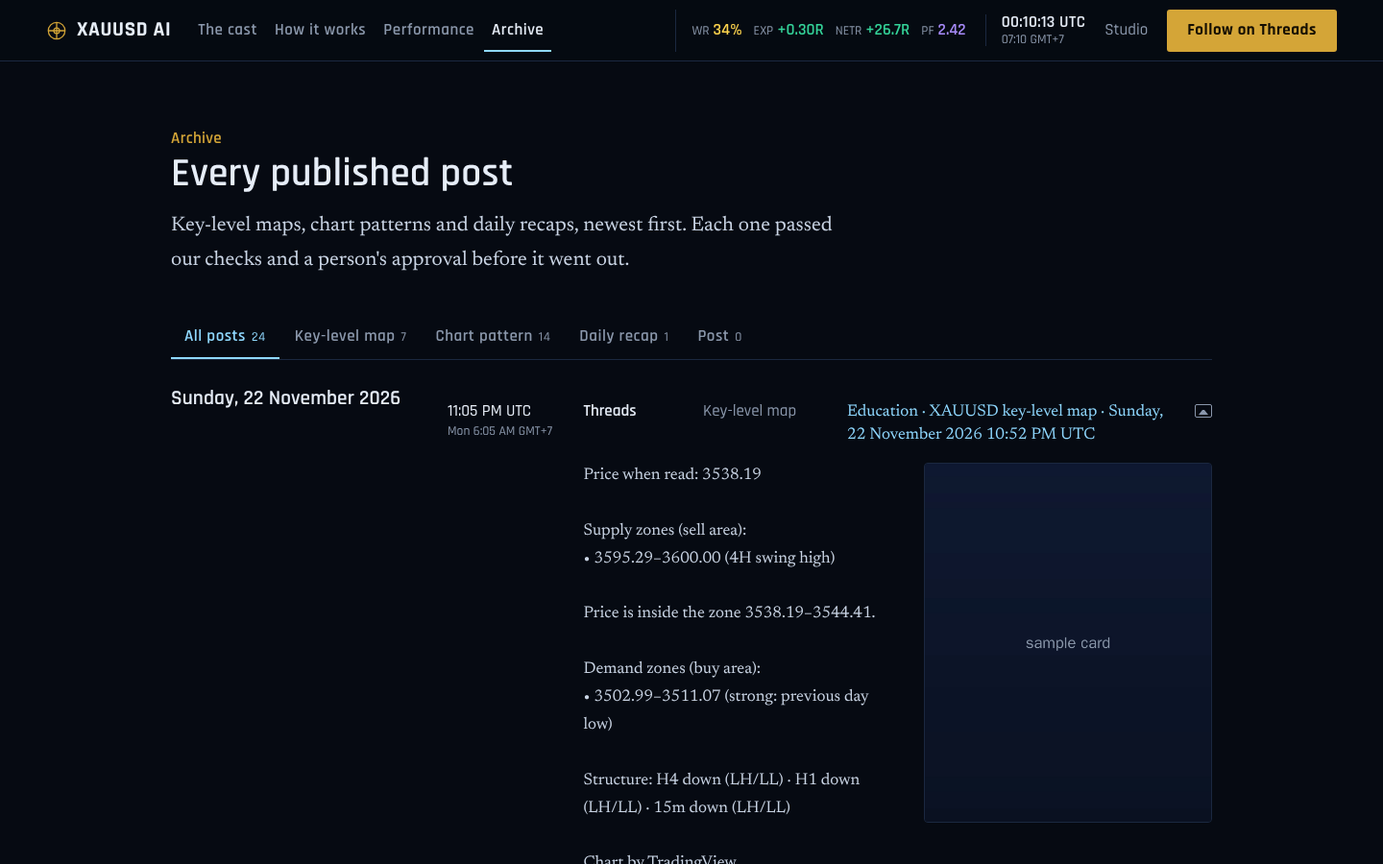
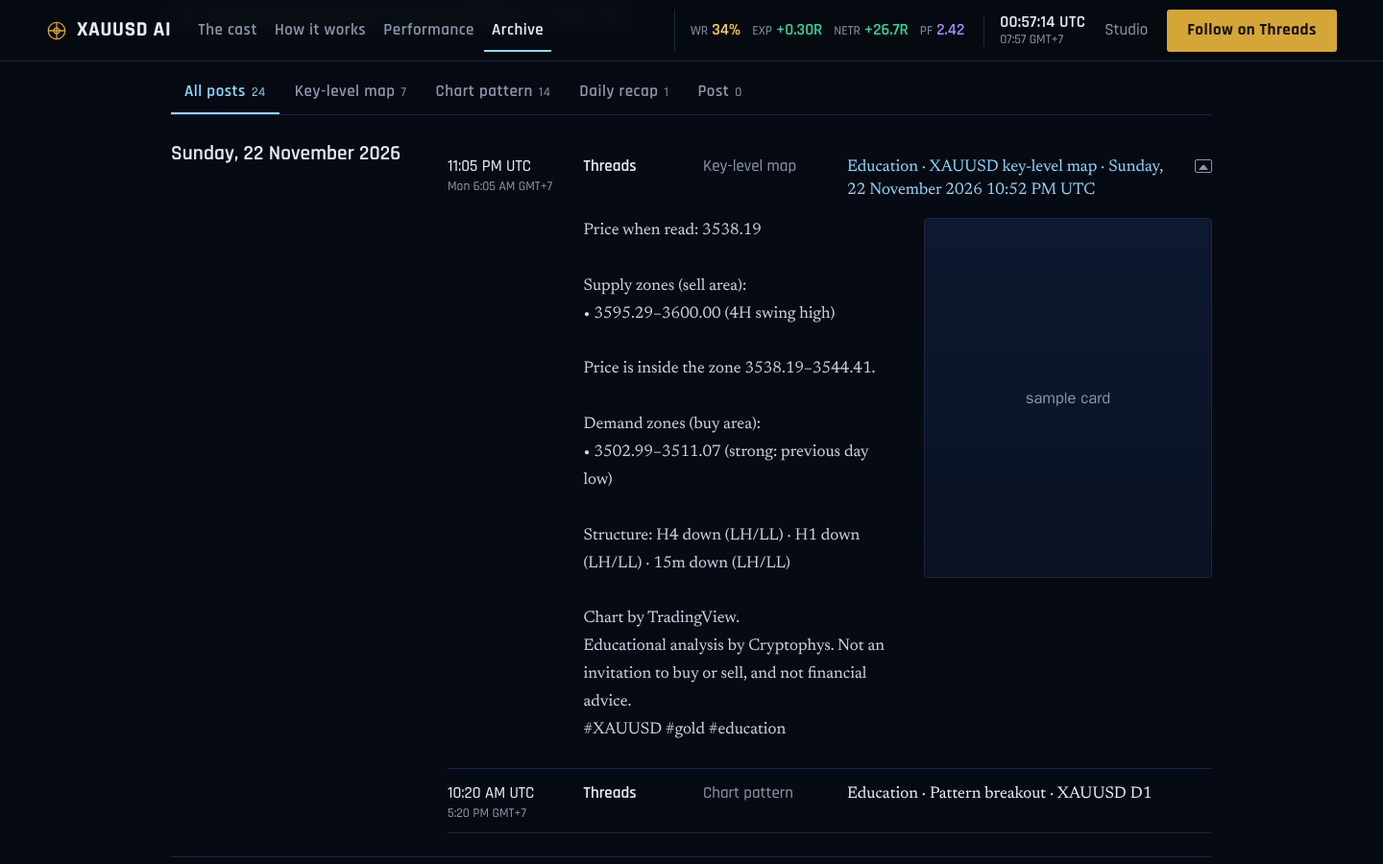
fix(archive): the digest on tablets, the phone as the mockup, a test for the card path
Orchestrator review of #73 at 5c7c7a2.
- MUST_FIX, tablets: from 761 to about 1000 px the day's 240 px column
  left the first line and the opened text 0 to 20 px. Now, as the
  mockup's 1100 px rule, the date stands over its posts at 1100 px and
  narrower; at 860 px and narrower the card goes under the text, at
  most 300 px wide. A headless sweep from 320 to 1600 px, with each
  line closed and opened, finds no horizontal scroll; the first line
  is at least 178 px wide (248 px at 768, 315 px at 834, 490 px at 1024).
- SHOULD_FIX: the card test now publishes a draft with its JPEG card
  and reads the Archive. posts[0].image is /media/<id>.jpg and is
  served, and image_url is absent. Sending image:null fails it.
- Phone: as the mockup, the time has its own column over two rows
  (min-content, the local time wrapping), with the channel and kind
  beside it and the first line under them.
- Forced colours: the picture mark keeps its triangle
  (forced-color-adjust:none, CanvasText).
- SSOT and CHANGELOG say what is built, including the two assistive
  strings and the shorter time line. Screenshots at 1440, 768 and
  iPhone 13.

Claude-Session: https://claude.ai/code/session_01KGEN4kuWc85UwVcwwV2Z6T

diff --git a/public/home.css b/public/home.css
@@ -489,17 +489,28 @@ ul{margin:0;padding:0;list-style:none}
 .a-note b{display:block;font:600 var(--s0)/1.3 var(--display)}
 .a-note p{margin-top:6px;font-style:italic;color:var(--slate)}
 .a-note a{font-style:normal;font-family:var(--display);font-weight:600;color:var(--holo)}
-/* a phone (the mockup at 390): the date over its posts; per line the time beside who and what, the first line under them; tabs wrap */
+/* a tablet and a narrow window (the mockup's 1100 px rule; orchestrator review of #73: from 761 px the day's 240 px
+   column left the line and the opened text 0 to 20 px): the date over its posts, so a line and its card take the width */
+@media (max-width:1100px){
+  .a-day{grid-template-columns:1fr;gap:6px}
+}
+/* the opened post: its card beside the text while both fit (the text at least 20 em), else under it */
+@media (max-width:860px){
+  .a-open{grid-template-columns:1fr;gap:16px}
+  .a-card{max-width:300px}
+}
+/* a phone (the mockup at 390): per line the time in its own column over two rows, the channel and kind beside it with
+   the first line under them, whole; the opened text and card under the line, full width; tabs wrap */
 @media (max-width:760px){
   .kinds{margin-top:28px}
   .kinds button{align-items:center;padding:0 10px}
-  .a-day{grid-template-columns:1fr;gap:0;padding-top:28px}
-  .a-post summary{grid-template-columns:auto minmax(0,1fr) 20px;grid-template-areas:"c k p" "t t t" "h h h";row-gap:2px;column-gap:10px}
-  .a-time{grid-area:t;display:flex;flex-wrap:wrap;align-items:baseline;gap:0 10px}
-  .a-time span{display:inline}.a-time .a-local{margin-top:0}
+  .a-day{padding-top:28px}
+  .a-post summary{grid-template-columns:min-content auto minmax(0,1fr) 20px;grid-template-areas:"t c k p" "t h h h";row-gap:2px;column-gap:10px}
+  .a-time{grid-area:t}
+  .a-time .a-local{white-space:normal}
   .a-ch{grid-area:c}.a-kind{grid-area:k}.a-pic{grid-area:p;grid-column:auto}
-  .a-head{grid-area:h;white-space:normal;margin-top:4px}
-  .a-open{grid-template-columns:1fr;padding-left:0;gap:16px}
+  .a-head{grid-area:h;white-space:normal}
+  .a-open{padding-left:0}
 }
 
 /* ---------- one look for every public page (the one-theme backlog, PR 1): Disclaimer, Privacy and Terms on the
@@ -538,6 +549,7 @@ ul{margin:0;padding:0;list-style:none}
   .chip[aria-pressed="true"]{forced-color-adjust:none;background:Highlight;color:HighlightText;border-color:Highlight}
   .status-reading .tick,.status-reading .tick.bear,.status-reading .tick.bull,.tally b,.tally .bear,.tally .bull,.tally .flat{forced-color-adjust:none;background:CanvasText}
   .status-reading .tick{outline:2px solid Canvas}
+  .a-pic,.a-pic::after{forced-color-adjust:none}.a-pic{border-color:CanvasText}.a-pic::after{border-bottom-color:CanvasText}
 }
 
 /* ---------- Sign in (the one-theme backlog, PR 4; owner decision 4: the dark look), which is also the studio's 403

diff --git a/public/index.html b/public/index.html
@@ -18,7 +18,7 @@
 <meta name="theme-color" content="#060A12">
 <link rel="preload" href="/fonts/rajdhani-latin-700-normal.woff2" as="font" type="font/woff2" crossorigin>
 <link rel="preload" href="/fonts/newsreader-latin-400-normal.woff2" as="font" type="font/woff2" crossorigin>
-<link rel="stylesheet" href="/home.css?v=4ef91704001a">
+<link rel="stylesheet" href="/home.css?v=8cfe24a48087">
 </head>
 <body itemscope itemtype="https://schema.org/WebSite">
 <link itemprop="url" href="https://cta.cryptophys.work/"><meta itemprop="name" content="XAUUSD AI by Cryptophys">

diff --git a/public/archive.html b/public/archive.html
@@ -19,7 +19,7 @@
 <link rel="preload" href="/api/public/archive?limit=100" as="fetch" crossorigin>
 <link rel="preload" href="/fonts/rajdhani-latin-600-normal.woff2" as="font" type="font/woff2" crossorigin>
 <link rel="preload" href="/fonts/newsreader-latin-400-normal.woff2" as="font" type="font/woff2" crossorigin>
-<link rel="stylesheet" href="/home.css?v=4ef91704001a">
+<link rel="stylesheet" href="/home.css?v=8cfe24a48087">
 </head>
 <body>
 <a class="skip" href="#posts">Skip to the posts</a>

diff --git a/public/performance.html b/public/performance.html
@@ -19,7 +19,7 @@
 <link rel="preload" href="/api/public/track-record" as="fetch" crossorigin>
 <link rel="preload" href="/fonts/rajdhani-latin-600-normal.woff2" as="font" type="font/woff2" crossorigin>
 <link rel="preload" href="/fonts/newsreader-latin-400-normal.woff2" as="font" type="font/woff2" crossorigin>
-<link rel="stylesheet" href="/home.css?v=4ef91704001a">
+<link rel="stylesheet" href="/home.css?v=8cfe24a48087">
 </head>
 <body>
 <a class="skip" href="#record">Skip to the record</a>

diff --git a/public/signin.html b/public/signin.html
@@ -12,7 +12,7 @@
 <meta name="theme-color" content="#060A12">
 <link rel="preload" href="/fonts/rajdhani-latin-500-normal.woff2" as="font" type="font/woff2" crossorigin>
 <link rel="preload" href="/fonts/newsreader-latin-400-normal.woff2" as="font" type="font/woff2" crossorigin>
-<link rel="stylesheet" href="/home.css?v=4ef91704001a">
+<link rel="stylesheet" href="/home.css?v=8cfe24a48087">
 </head>
 <body class="gated">
 <a class="skip" href="#text">Skip to the text</a>

diff --git a/public/about.html b/public/about.html
@@ -18,7 +18,7 @@
 <meta name="theme-color" content="#060A12">
 <link rel="preload" href="/fonts/rajdhani-latin-600-normal.woff2" as="font" type="font/woff2" crossorigin>
 <link rel="preload" href="/fonts/newsreader-latin-400-normal.woff2" as="font" type="font/woff2" crossorigin>
-<link rel="stylesheet" href="/home.css?v=4ef91704001a">
+<link rel="stylesheet" href="/home.css?v=8cfe24a48087">
 </head>
 <body>
 <a class="skip" href="#text">Skip to the text</a>

diff --git a/public/disclaimer.html b/public/disclaimer.html
@@ -18,7 +18,7 @@
 <meta name="theme-color" content="#060A12">
 <link rel="preload" href="/fonts/rajdhani-latin-600-normal.woff2" as="font" type="font/woff2" crossorigin>
 <link rel="preload" href="/fonts/newsreader-latin-400-normal.woff2" as="font" type="font/woff2" crossorigin>
-<link rel="stylesheet" href="/home.css?v=4ef91704001a">
+<link rel="stylesheet" href="/home.css?v=8cfe24a48087">
 </head>
 <body>
 <a class="skip" href="#text">Skip to the text</a>

diff --git a/public/privacy.html b/public/privacy.html
@@ -18,7 +18,7 @@
 <meta name="theme-color" content="#060A12">
 <link rel="preload" href="/fonts/rajdhani-latin-600-normal.woff2" as="font" type="font/woff2" crossorigin>
 <link rel="preload" href="/fonts/newsreader-latin-400-normal.woff2" as="font" type="font/woff2" crossorigin>
-<link rel="stylesheet" href="/home.css?v=4ef91704001a">
+<link rel="stylesheet" href="/home.css?v=8cfe24a48087">
 </head>
 <body>
 <a class="skip" href="#text">Skip to the text</a>

diff --git a/public/terms.html b/public/terms.html
@@ -18,7 +18,7 @@
 <meta name="theme-color" content="#060A12">
 <link rel="preload" href="/fonts/rajdhani-latin-600-normal.woff2" as="font" type="font/woff2" crossorigin>
 <link rel="preload" href="/fonts/newsreader-latin-400-normal.woff2" as="font" type="font/woff2" crossorigin>
-<link rel="stylesheet" href="/home.css?v=4ef91704001a">
+<link rel="stylesheet" href="/home.css?v=8cfe24a48087">
 </head>
 <body>
 <a class="skip" href="#text">Skip to the text</a>

diff --git a/docs/SSOT.md b/docs/SSOT.md
@@ -33,7 +33,7 @@ Bindings:
     - **From a closed candle to a post** (`#how`, six numbered steps) and the disclaimer from the public profile as a quiet italic line. The footer carries Minutes, The cast, How it works, Performance, Archive, Disclaimer, Threads and Studio sign in.
     - `site/home/home.js` is built into `public/home.js` (ES module) by `npm run build:room`; `public/room/build.json` records its hash too.
   - **Performance** (`/performance`, owner 2026-11-20, "approved all"; `public/performance.html`, `site/performance/performance.js` built into `public/performance.js`, the table from `trackModel` in `site/home/track.js`): the simulated track record from `GET /api/public/track-record`, in the home page's look. One table, four rows (win rate with won, lost and even; expectancy; net R with the average win and loss; profit factor) by three columns (Exit at TP1, Exit at TP2, Managed exit). The columns cover different sets (orchestrator review, 2026-11-20): each carries its own count and start under its title ("72 plans since …", the managed exit "41 trades since …"), and a footnote says so; Exit at TP2 counts only plans with a second target, the managed exit is a separate replayed account under its own rules. The managed exit shows numbers only when `replay_check.shown` and its own `shown` are both true; until then one slate line, "Shown once the replay matches the live account.", no number. A term list for beginners (R, win rate and "even", expectancy, net R, profit factor) and the simulation disclaimer. Numbers in Rajdhani, words in Newsreader, no red or green on a number (those are for readings), no filled cards. On a phone each row lists its columns as label and value. Without a record the page says the numbers are not available yet. In the main navigation before Archive, `aria-current="page"` on its own page; the footer carries it too. Its header is the home's: the four links and the clock. Aggregates in R only; never the internal names. Without layout shift (one-theme PR 3, C1): the record is preloaded in the head (`/api/public/track-record`, the script's plain `fetch(TRACK_URL)`, so the browser uses that answer); the empty line and the table stand in a visible `.track-box` that is `aria-busy` while the record loads, and meanwhile the table is laid out unseen (the column heads and the footnote in their own words, the rows and the column counts held at the height the record's shape draws). From 761 px the table's columns have fixed widths (the label's 24 %, the rest shared), so a pending managed exit's note no longer widens its column and wraps the others, and a pending and a shown managed exit draw the same table height at every width; on a phone the hold is the pending managed exit's (the live shape, and the shorter one: a shown managed exit adds its lines below it, under the fold). The script draws and drops `aria-busy` in the same task and keeps no floor (review of #69: the floor, sized for the tallest shape, left up to 930 px of blank under an empty record and 115 to 141 px under the live one on a phone). An empty or failed record (`{ available: false }`, a 502, an HTML answer) is one line, so the page below moves up once at the draw. Without a script nothing is held (`@media (scripting:none)`): only "Loading the record." shows. `test/fixtures/track-heights.json` (measured by `scripts/track-heights.mjs`, headless Chromium, every width from 320 to 1600 px) holds the box's height while loading and once drawn; TH20 checks that both normal shapes draw within 2 px of it and that the file is measured from the current layout. Headless Chromium, the record after 1.2 s: CLS 0.0008 or less for both shapes at 1440, 960, 768, 700, 390 and 320 (it was 0.13 to 0.49), the gap under the record 48 px as before the box; an empty or failed record 0.09 (1440) to 0.38 (700). The Threads links come from the public profile through the shared `applyProfile` (C3).
-  - **Archive as a digest** (owner 2026-11-23: "Archive seharusnya dalam bentuk digest, ketika diklik akan muncul gambar jika memang ada gambar"; the mockup "CTA Archive as a digest", "ya di tempat"): under each day one line per post (a `details` element): the UTC time in 12-hour form with the local time under it, the channel, the kind, the post's first line on one line (cut with an ellipsis) and a small picture mark when the post has a card. A click or Enter opens the line in place: the text as published and, beside it (under it on a phone), the post's card, whose image is fetched only when the line is first opened (1080 × 1350, no shift). `GET /api/public/archive` gives each post `image`: the path of its own JPEG card (`/media/<id>.jpg`, public once the post is published) or null (a video, or no card); the stored URL never goes out (`cardPathOf`). Tests AR4 and the archive API test; screenshots `docs/screenshots/archive-digest/`.
+  - **Archive as a digest** (owner 2026-11-23: "Archive seharusnya dalam bentuk digest, ketika diklik akan muncul gambar jika memang ada gambar"; the mockup "CTA Archive as a digest", "ya di tempat"): under each day one line per post (a `details` element): the UTC time in 12-hour form with the local time under it, the channel, the kind, the post's first line on one line (cut with an ellipsis) and a small picture mark when the post has a card. A click or Enter opens the line in place: the text as published and, beside it (under it at 860 px and narrower, at most 300 px wide), the post's card, whose image is fetched only when the line is first opened (1080 × 1350, no shift). At 1100 px and narrower the date stands over its posts (the mockup's 1100 px rule; review of #73: from 761 px the day's column left the line 0 to 20 px). On a phone (760 px and narrower), as the mockup: the time in its own column over two rows (the local time wrapping under the UTC time), the channel and kind beside it, the first line whole under them. In forced colours the picture mark keeps its shape (`forced-color-adjust:none`, drawn in CanvasText). Words: no public text changed, except two strings for assistive technology (the mark's label "has a card" and the card's alt text "The post's card") and the line's time, now the UTC time alone (the date is the day's heading) with the local time under it. `GET /api/public/archive` gives each post `image`: the path of its own JPEG card (`/media/<id>.jpg`, public once the post is published) or null (a video, or no card); the stored URL never goes out (`cardPathOf`). Tests AR4 and the archive API tests (a published post with a JPEG card gives `image: "/media/<id>.jpg"`, served, and no `image_url`); screenshots `docs/screenshots/archive-digest/` (1440, 768, iPhone 13).
   - **Archive** (`/archive`, frontend mockup 2026-11-22, owner approved: layout only, no public text changed; `public/archive.html`, `site/archive/archive.js` and the pure `model.js` built into `public/archive.js`): the Performance page's look, header (with the average strip and the clock) and footer (Home is the brand link, Disclaimer in the footer); the kind tabs (All posts, Key-level map, Chart pattern, Daily recap, Post, with counts; arrow keys) wrap on a phone; each UTC day in a left column beside its posts, as in the minutes (a phone: the date over them); a post shows its channel, its kind, the UTC time with the visitor's local time under it (with the weekday when the local day differs; none for a visitor on UTC), its first line as the headline and the rest as published (`pre-wrap`). The tabs are built once and only marked, so focus stays where a person put it; the list is their `tabpanel`: one tab in the tab order (roving `tabindex`), the panel focusable (`tabindex="0"`) and labelled by the chosen tab once the tabs are drawn (before that, and without a script, it is neither: review of #69), each day's section labelled by its own heading (`aria-labelledby`; one-theme PR 3, C4). The request is preloaded in the head (`/api/public/archive?limit=100`, the script's very URL); the list keeps its height while it loads (`aria-busy`, CLS 0 against 0.54 before) and after it when the read is empty or failed (`.hold`), so the note and footer never jump up and "No posts published yet." shows only once the read is done, for an empty or a failed read (as before). The disclaimer line from the public profile (through the shared `applyProfile`, one-theme PR 3, C3; the profile's channel names still label the posts) and "Read the full disclaimer" stay. Tests AR1 to AR3; screenshots `docs/screenshots/archive/`.
   - **One look for every public page** (the one-theme backlog, owner decisions of 2026-11-22; PR 1: Disclaimer, Privacy and Terms; PR 2: About; PR 3: fixes on the dark pages; PR 4: Sign in; PR 5: `cta.js` gone, `cta.css` the studio's own; the series is complete). The pages in the look are `VERSIONED_PAGES` (`scripts/versions.mjs`): `/`, `/performance`, `/archive`, `/about`, `/disclaimer`, `/privacy`, `/terms` and `/signin` (the studio keeps `cta.css`, the owner's light look of 16 Nov, now with only its own rules). Each stands on `home.css` alone, with the vault's theme colour, two font preloads and a skip link first; the Performance page's header (brand link, the four links, the average strip, the UTC and local clock, Studio sign in, Follow on Threads) and the same footer (Footer: Minutes, The cast, How it works, Performance, Archive, Disclaimer, Threads, Studio sign in; Legal: Privacy, About the system, Terms, Font licences, and 3D credits on the home page only). `aria-current="page"` marks only a page's own links (the footer's, in ink; the header's where the header names the page). The war room and TradingView's quote are the home page's only. Every word inside `<main>` is kept: Disclaimer, Privacy and Terms carry their eyebrow, headline and lede as before; Privacy and Terms their "Last updated" as the page's basis line (`.page .basis`; Disclaimer has none); the text as prose on the vault (`.page .prose`: no panel or shadow, headings at `--s2`, reading text at `--s0`, 38 em, line height 1.7), whose last child is the profile's disclaimer (`.page .fine`, hidden while empty). About (PR 2) carries its eyebrow, headline and lede, then its own rules in `home.css`, not the home page's `.steps` (so the grid of `#how` is untouched): the five steps as `.page .a-steps` (each number in gold Rajdhani at `--s5`, `--s4` on a phone, in its own column, a thin rule down to the next; the step headings at `--s1` are `h2`, as the heading order asks: they were `h3` under the `h1`, a markup change, not a word), two `.page .a-sec` sections with headings at `--s3` (What each post type means: `.page .types`, three columns without a panel, one at 760 px and narrower; What we never post: `.page .never`, a slate marker before each line), and the note "Education, not financial advice" with the profile's disclaimer (`#disclaimer`) and "Read the full disclaimer" as the Archive's `.a-note`; no reading colours (red, green, amber) and nothing of `cta.css`. The chart credit and "© Cryptophys · Education, not financial advice" stay on the pages that had them (owner decision 2: the Archive, these three, About and Sign in), as words on a line under the Legal links (`p.foot-note`). Their script is `site/page/page.js`, built into `public/page.js` (versioned, kept a year; About's and Sign in's too): the header's clock, the average strip and one GET of the public profile (`applyProfile` in the pure `site/page/profile.js`: the Threads links from Threads' own host only, the disclaimer); it imports only the header, the strip, the record's URL and the profile, never the war room, `home.js` or `gold.js`. The header and footer words these pages changed (owner decision 1, as #63 did for the Archive): the brand link "XAUUSD AI" / "Cryptophys" replaces "Cryptophys" and "Home"; How it works goes to `/#how` (it went to `/about`, which the footer names About the system); Disclaimer moves to the footer; The cast, Performance, the average strip, the clock and Follow on Threads join the header; Minutes, The cast, Performance, Threads, Studio sign in, About the system and Font licences join the footer, whose brand line reads "XAUUSD AI by Cryptophys"; the skip link reads "Skip to the text". On About (PR 2) the same, and its own mark moves: the header's How it works marked About before (`/about`, `aria-current`); now it goes to `/#how` unmarked and the footer's About the system carries the mark (owner decision 3). The hero's short-window lede step (line height 1.6) is the hero's only, so the other pages' ledes keep 1.72. PR 3 (fixes on the dark pages, no word changed): Performance without layout shift (C1, above); forced colours (Windows high contrast, C2: the system drops shadows and fills, so the page's own link in the header and footer is underlined, focus is a Highlight ring, only the chosen tab of the Archive and the minutes carries a Highlight rule, a pressed chip is filled with Highlight, the room's reading tick and the tally keep their bars in CanvasText (the tick ringed in Canvas, as it stands on the room's scene, which forced colours do not repaint; each tone class named in the block, so the theme's `.tick.bear` and `.tally .bear` colours do not outrank them; review of #69), the header is opaque, and About's never markers are drawn as a border); Performance sets the Threads links, and the Archive the Threads links and the disclaimer, through `applyProfile` (C3; Performance has no disclaimer line); the Archive's tabs and days labelled (C4); the header's links 44 px tall from 760 px down (C4b) and the header on two rows from 760 px down (C5: a headless sweep of every themed page from 320 to 1600 px finds no link over the clock, the brand, the strip or the actions); About's step numbers in Rajdhani 600, the preloaded weight (700 swapped in late and moved them). Tests TH1 to TH25 (`test/theme.test.mjs`; TH3 compares each page's whole footer, markup and attributes, with the Performance page's; TH8 holds the five ported pages' words and titles to their PR base, `test/fixtures/legal-words.json`; TH12 About's words part by part and its heading order; TH13 About's own rules; TH14 to TH20 PR 3's: the record's preload and box, and its held heights against the measured drawn ones (TH20), the forced-colours block, the shared profile, the Archive's tabs, the two-row breakpoint and 44 px links, the step numbers' preloaded weight; TH21 to TH25 PR 4's, below, TH24 rewritten in PR 5); screenshots `docs/screenshots/theme-pr1/`, `docs/screenshots/theme-pr2/` and `docs/screenshots/theme-pr3/`. PR 4 (owner decision 4, "Sign in ikut tampilan gelap"): `/signin` in the look, `noindex` kept and still no canonical, Open Graph or Twitter tag (robots.txt keeps it out, the sitemap never names it); every word of the card and the title kept (TH8, TH22); the card a narrow panel ruled on the vault without a fill (`.page .gate`), "Sign in with Cloudflare Access" a `.btn.ghost` so Follow on Threads stays the page's only gold (its edge this page's own, `rgba(143,216,255,.5)`, 3.79:1 on the vault, its hover the full holo; review of #70), "Not signed in" a slate note; no rule that can match the card's boxes (`main.page`, `section.gate`, the note, its `b` and `p`) adds italic, a fill or a shadow (TH22, TH25 read `home.css` against the page's elements); no link marked (no nav names `/signin`); the body a column at least the window's height (`body.gated`), so the footer meets the bottom of a tall window, and nothing wider than 320 px (the button's words wrap); it preloads Rajdhani 500, the footer's weight, since the short page shows the footer on load. The same file is the studio's 403 page (`asset(…, "/signin", 403)` in `src/app.mjs`, `no-store`; TH23 runs it through `handle()`). Its header and footer words changed as on the other ported pages (owner decision 1): the brand link replaces "Cryptophys" and "Home", How it works goes to `/#how`, Disclaimer moves to the footer, The cast, Performance, the strip, the clock and Follow on Threads join the header ("Studio sign in" becomes the header's quiet link), and the footer gains Minutes, The cast, Performance, Threads, Studio sign in, Privacy, About the system, Terms and Font licences under the brand line "XAUUSD AI by Cryptophys"; the skip link reads "Skip to the text". Only Sign in's rules left `cta.css` (`.signin`, `.signin-card`, `.logo.big`). Tests TH21 to TH25; screenshots `docs/screenshots/theme-pr4/`. PR 5 (E1, and the rest of E2) completes the series: `public/cta.js`, which no page loaded after PR 4, is deleted, and no page, Worker source, build script, header rule, config file or test names it (the Worker serves `public/` as assets, so the old URL is a 404; `src/` never named it); `public/cta.css` is the studio's alone (`public/studio/index.html` and what `studio/studio.js` renders): the public page's and sub-pages' rules left (the hero, the facts, the channel links, the posts, the steps and their numbers, the never list, the prose, the old footer, the public top bar's nav, `#studio-link`, the 860 px breakpoint, `.sr`, `.btn.lg`, `.grid.three`), 60 rules, 23,385 to 19,383 bytes and 315 to 258 lines. Every rule left is one the studio can match: TH24 holds the 246 (the 256 of PR 4 less ten public-page rules the studio never draws, in file order) by hash, no public page's class, the old Studio link or the public nav, and no file naming `cta.js`. The studio's screens are pixel-identical before and after (headless Chromium through `handle()` with a valid Access JWT, 25 states at 1440 and 390 px: every view, each queue tab, the dry run, Create's kinds, a typed post and variant B, the library's edit box, the calendar's months, the channels' account forms). A few studio rules no current state draws are kept (`.channel` and its parts, `.btn svg`, `.notice.info svg`, `.linkrow code`).
   - Sources: `site/room/` (`main.js` the scene, `data.js` the public cast: one-word names, plain roles, nothing internal; `script.js` the pure scene-to-meeting script with a second filter for order words, price-like numbers and positions; `sound.js`). `npm run build:room` (esbuild + three 0.170.0, dev dependencies) writes `public/room/room.js`, the navigator into `public/index.html` and `public/room/build.json`; the build output is committed (the deploy has no build step) and a test fails when the sources changed without a rebuild. `public/home.js` loads the scene after first paint and only where WebGL works, and starts the mannequin's download with the scene's (`window.__mannequin`; the scene parses those bytes, else fetches it itself). The scene's caption (`#sub`) is not a live region: screen readers are not read every rotating line.

diff --git a/docs/CHANGELOG.md b/docs/CHANGELOG.md
@@ -1,7 +1,7 @@
 # Changelog
 
 ## 2026-11-23 (archive digest)
-- feat(archive): the Archive as a digest (owner 2026-11-23: "Archive seharusnya dalam bentuk digest, ketika diklik akan muncul gambar jika memang ada gambar"; mockup approved, "ya di tempat"). Each post is one line under its day: the UTC time (12-hour) and local time, the channel, the kind, the first line and a picture mark when it has a card; a click or Enter opens it in place with the text as published and its card, fetched only on opening. `GET /api/public/archive` adds `image` per post: its own card's `/media/<id>.jpg` path or null (videos and posts without a card); the stored URL is not passed on. No public text changed. Tests AR4 and the archive API test; screenshots `docs/screenshots/archive-digest/`.
+- feat(archive): the Archive as a digest (owner 2026-11-23: "Archive seharusnya dalam bentuk digest, ketika diklik akan muncul gambar jika memang ada gambar"; mockup approved, "ya di tempat"). Each post is one line under its day: the UTC time (12-hour) and local time, the channel, the kind, the first line and a picture mark when it has a card; a click or Enter opens it in place with the text as published and its card, fetched only on opening. `GET /api/public/archive` adds `image` per post: its own card's `/media/<id>.jpg` path or null (videos and posts without a card); the stored URL is not passed on. At 1100 px and narrower the date stands over its posts, and at 860 px and narrower the card goes under the text (review: tablets from 761 px left the line 0 to 20 px); on a phone the time has its own column over two rows, as the mockup; in forced colours the picture mark keeps its triangle. Public text: unchanged except two strings for assistive technology ("has a card", "The post's card") and the line's time, now the UTC time alone with the local time under it (the date is the day's heading). Tests AR4 and the archive API tests (a published post with its JPEG card); screenshots `docs/screenshots/archive-digest/` at 1440, 768 and iPhone 13.
 
 ## 2026-11-22 (mannequin lock settings)
 - test(room): RM12 also holds `scripts/mannequin.lock.json`'s `quantize` and `simplify` to `QUANTIZE` and `SIMPLIFY` in `scripts/mannequin.mjs`, so a hand-edited lock fails; the #64 entry states its sizes in KiB like the rest (orchestrator review of #65).
